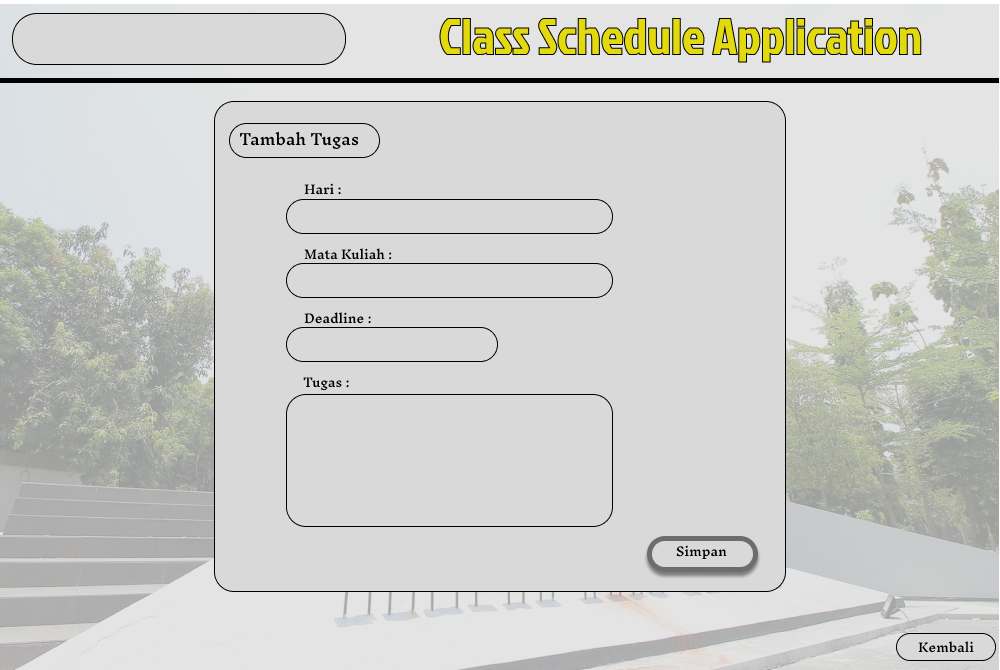
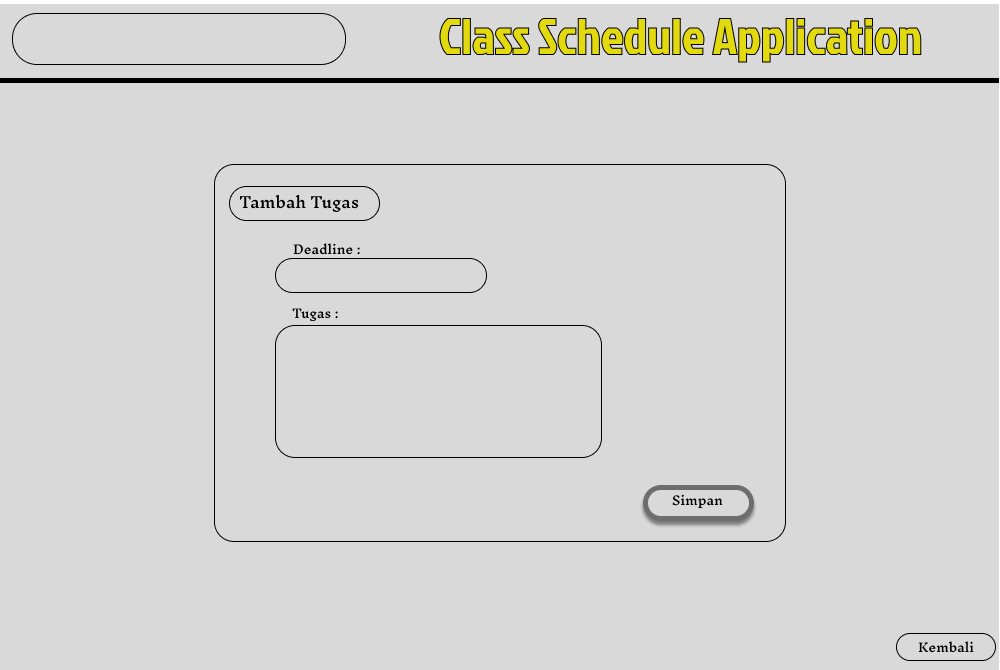
Add files via upload

diff --git a/src/csa_fppbo1/LihatJadwal.java b/src/csa_fppbo1/LihatJadwal.java
@@ -3,6 +3,7 @@
  * Click nbfs://nbhost/SystemFileSystem/Templates/GUIForms/JFrame.java to edit this template
  */
 package csa_fppbo1;
+
 import database.dbconnection;
 import java.sql.*;
 import javax.swing.*;
@@ -14,12 +15,11 @@ public class LihatJadwal extends javax.swing.JFrame {
      private String npm;
      private String nama;
      private String hari;
-     private String namaMatkul;
-     
-     
-    public LihatJadwal() {
+
+     public LihatJadwal() {
         initComponents();
     }
+     
     
     public LihatJadwal(String nama, String npm, String hari){
         this.nama = nama;
@@ -50,11 +50,14 @@ public class LihatJadwal extends javax.swing.JFrame {
 
             JLabel[] jLabelsJ = {jLabelJ1, jLabelJ2, jLabelJ3, jLabelJ4};
             JLabel[] jLabelsT = {jLabelJam1, jLabelJam2, jLabelJam3, jLabelJam4};
+            JLabel[] jLabelsTask = {jLabelT1, jLabelT2, jLabelT3, jLabelT4};
 
             int index = 0;
             while (rs.next() && index < 4) {
                 jLabelsJ[index].setText(rs.getString("mata_kuliah"));
                 jLabelsT[index].setText(rs.getString("jam"));
+                int scheduleId = rs.getInt("id");
+                loadTugas(scheduleId, jLabelsTask[index]);
                 index++;
             }
 
@@ -65,7 +68,31 @@ public class LihatJadwal extends javax.swing.JFrame {
             JOptionPane.showMessageDialog(this, "Error: " + e.getMessage());
         }
     }
+    
+    private void loadTugas(int scheduleId, JLabel label) {
+        try {
+            dbconnection koneksi = new dbconnection();
+            Connection conn = koneksi.getConnection();
+            String query = "SELECT deskripsi_tugas FROM tugas WHERE schedule_id = ?";
+            PreparedStatement ps = conn.prepareStatement(query);
+            ps.setInt(1, scheduleId);
+            ResultSet rs = ps.executeQuery();
 
+            if (rs.next()) {
+                label.setText(rs.getString("deskripsi_tugas"));
+            } else {
+                label.setText("Tidak ada tugas.");
+            }
+
+            rs.close();
+            ps.close();
+            conn.close();
+        } catch (SQLException e) {
+            JOptionPane.showMessageDialog(this, "Error: " + e.getMessage());
+        }
+    }
+    
+    
     private void deleteJadwal(int index) {
         try {
             dbconnection koneksi = new dbconnection();
@@ -75,7 +102,7 @@ public class LihatJadwal extends javax.swing.JFrame {
             JLabel[] jLabelsT = {jLabelJam1, jLabelJam2, jLabelJam3, jLabelJam4};
 
             String mataKuliah = jLabelsJ[index].getText();
-            if (mataKuliah.equals("J1") || mataKuliah.equals("J2") || mataKuliah.equals("J3") || mataKuliah.equals("4")) {
+            if (mataKuliah.equals("J1") || mataKuliah.equals("J2") || mataKuliah.equals("J3") || mataKuliah.equals("j4")) {
                 JOptionPane.showMessageDialog(this, "Tidak ada jadwal yang dipilih untuk dihapus.");
                 return;
             }
@@ -98,14 +125,45 @@ public class LihatJadwal extends javax.swing.JFrame {
             JOptionPane.showMessageDialog(this, "Error: " + e.getMessage());
         }
     }
+    
+    private void deleteTugas(int index) {
+        try {
+            dbconnection koneksi = new dbconnection();
+            Connection conn = koneksi.getConnection();
+            JLabel[] jLabelsTask = {jLabelT1, jLabelT2, jLabelT3, jLabelT4};
+            JLabel[] jLabelsJ = {jLabelJ1, jLabelJ2, jLabelJ3, jLabelJ4};
+
+            String mataKuliah = jLabelsJ[index].getText();
+            if (mataKuliah.equals("J1") || mataKuliah.equals("J2") || mataKuliah.equals("J3") || mataKuliah.equals("J4")) {
+                JOptionPane.showMessageDialog(this, "Tidak ada tugas yang dipilih untuk dihapus.");
+                return;
+            }
+
+            String query = "DELETE FROM tugas WHERE schedule_id = (SELECT id FROM schedule WHERE hari = ? AND npm = ? AND mata_kuliah = ?)";
+            PreparedStatement ps = conn.prepareStatement(query);
+            ps.setString(1, this.hari);
+            ps.setString(2, this.npm);
+            ps.setString(3, mataKuliah);
+            ps.executeUpdate();
+
+            jLabelsTask[index].setText("Tidak ada tugas.");
+
+            ps.close();
+            conn.close();
+
+            JOptionPane.showMessageDialog(this, "Tugas berhasil dihapus.");
+        } catch (SQLException e) {
+            JOptionPane.showMessageDialog(this, "Error: " + e.getMessage());
+        }
+    }
     @SuppressWarnings("unchecked")
     // <editor-fold defaultstate="collapsed" desc="Generated Code">//GEN-BEGIN:initComponents
     private void initComponents() {
 
-        jButton4 = new javax.swing.JButton();
-        jButton9 = new javax.swing.JButton();
+        jhapustugas3 = new javax.swing.JButton();
+        jhapustugas4 = new javax.swing.JButton();
         jButton10 = new javax.swing.JButton();
-        jButton11 = new javax.swing.JButton();
+        jhapustugas2 = new javax.swing.JButton();
         jButtonTtugas1 = new javax.swing.JButton();
         jButtonTtugas3 = new javax.swing.JButton();
         jButtonTtugas2 = new javax.swing.JButton();
@@ -121,7 +179,7 @@ public class LihatJadwal extends javax.swing.JFrame {
         jLabelT1 = new javax.swing.JLabel();
         jLabelT2 = new javax.swing.JLabel();
         jLabelT3 = new javax.swing.JLabel();
-        jButton21 = new javax.swing.JButton();
+        jhapustugas1 = new javax.swing.JButton();
         jButtonHapusJ1 = new javax.swing.JButton();
         jButtonHapusJ2 = new javax.swing.JButton();
         jButtonHapusJ3 = new javax.swing.JButton();
@@ -134,27 +192,27 @@ public class LihatJadwal extends javax.swing.JFrame {
         setDefaultCloseOperation(javax.swing.WindowConstants.EXIT_ON_CLOSE);
         getContentPane().setLayout(new org.netbeans.lib.awtextra.AbsoluteLayout());
 
-        jButton4.setBackground(new java.awt.Color(218, 218, 218));
-        jButton4.setFont(new java.awt.Font("Arial", 1, 14)); // NOI18N
-        jButton4.setText("-");
-        jButton4.setBorder(javax.swing.BorderFactory.createLineBorder(new java.awt.Color(0, 0, 0)));
-        jButton4.addActionListener(new java.awt.event.ActionListener() {
+        jhapustugas3.setBackground(new java.awt.Color(218, 218, 218));
+        jhapustugas3.setFont(new java.awt.Font("Arial", 1, 14)); // NOI18N
+        jhapustugas3.setText("-");
+        jhapustugas3.setBorder(javax.swing.BorderFactory.createLineBorder(new java.awt.Color(0, 0, 0)));
+        jhapustugas3.addActionListener(new java.awt.event.ActionListener() {
             public void actionPerformed(java.awt.event.ActionEvent evt) {
-                jButton4ActionPerformed(evt);
+                jhapustugas3ActionPerformed(evt);
             }
         });
-        getContentPane().add(jButton4, new org.netbeans.lib.awtextra.AbsoluteConstraints(495, 473, 20, 11));
+        getContentPane().add(jhapustugas3, new org.netbeans.lib.awtextra.AbsoluteConstraints(495, 473, 20, 11));
 
-        jButton9.setBackground(new java.awt.Color(218, 218, 218));
-        jButton9.setFont(new java.awt.Font("Arial", 1, 14)); // NOI18N
-        jButton9.setText("-");
-        jButton9.setBorder(javax.swing.BorderFactory.createLineBorder(new java.awt.Color(0, 0, 0)));
-        jButton9.addActionListener(new java.awt.event.ActionListener() {
+        jhapustugas4.setBackground(new java.awt.Color(218, 218, 218));
+        jhapustugas4.setFont(new java.awt.Font("Arial", 1, 14)); // NOI18N
+        jhapustugas4.setText("-");
+        jhapustugas4.setBorder(javax.swing.BorderFactory.createLineBorder(new java.awt.Color(0, 0, 0)));
+        jhapustugas4.addActionListener(new java.awt.event.ActionListener() {
             public void actionPerformed(java.awt.event.ActionEvent evt) {
-                jButton9ActionPerformed(evt);
+                jhapustugas4ActionPerformed(evt);
             }
         });
-        getContentPane().add(jButton9, new org.netbeans.lib.awtextra.AbsoluteConstraints(495, 583, 20, 11));
+        getContentPane().add(jhapustugas4, new org.netbeans.lib.awtextra.AbsoluteConstraints(495, 583, 20, 11));
 
         jButton10.setBackground(new java.awt.Color(218, 218, 218));
         jButton10.setFont(new java.awt.Font("Arial", 1, 10)); // NOI18N
@@ -167,16 +225,16 @@ public class LihatJadwal extends javax.swing.JFrame {
         });
         getContentPane().add(jButton10, new org.netbeans.lib.awtextra.AbsoluteConstraints(903, 630, 60, 20));
 
-        jButton11.setBackground(new java.awt.Color(218, 218, 218));
-        jButton11.setFont(new java.awt.Font("Arial", 1, 14)); // NOI18N
-        jButton11.setText("-");
-        jButton11.setBorder(javax.swing.BorderFactory.createLineBorder(new java.awt.Color(0, 0, 0)));
-        jButton11.addActionListener(new java.awt.event.ActionListener() {
+        jhapustugas2.setBackground(new java.awt.Color(218, 218, 218));
+        jhapustugas2.setFont(new java.awt.Font("Arial", 1, 14)); // NOI18N
+        jhapustugas2.setText("-");
+        jhapustugas2.setBorder(javax.swing.BorderFactory.createLineBorder(new java.awt.Color(0, 0, 0)));
+        jhapustugas2.addActionListener(new java.awt.event.ActionListener() {
             public void actionPerformed(java.awt.event.ActionEvent evt) {
-                jButton11ActionPerformed(evt);
+                jhapustugas2ActionPerformed(evt);
             }
         });
-        getContentPane().add(jButton11, new org.netbeans.lib.awtextra.AbsoluteConstraints(495, 362, 20, 11));
+        getContentPane().add(jhapustugas2, new org.netbeans.lib.awtextra.AbsoluteConstraints(495, 362, 20, 11));
 
         jButtonTtugas1.setBackground(new java.awt.Color(218, 218, 218));
         jButtonTtugas1.setFont(new java.awt.Font("Arial", 1, 10)); // NOI18N
@@ -255,16 +313,16 @@ public class LihatJadwal extends javax.swing.JFrame {
         getContentPane().add(jLabelT2, new org.netbeans.lib.awtextra.AbsoluteConstraints(180, 330, 280, 40));
         getContentPane().add(jLabelT3, new org.netbeans.lib.awtextra.AbsoluteConstraints(180, 440, 280, 40));
 
-        jButton21.setBackground(new java.awt.Color(218, 218, 218));
-        jButton21.setFont(new java.awt.Font("Arial", 1, 14)); // NOI18N
-        jButton21.setText("-");
-        jButton21.setBorder(javax.swing.BorderFactory.createLineBorder(new java.awt.Color(0, 0, 0)));
-        jButton21.addActionListener(new java.awt.event.ActionListener() {
+        jhapustugas1.setBackground(new java.awt.Color(218, 218, 218));
+        jhapustugas1.setFont(new java.awt.Font("Arial", 1, 14)); // NOI18N
+        jhapustugas1.setText("-");
+        jhapustugas1.setBorder(javax.swing.BorderFactory.createLineBorder(new java.awt.Color(0, 0, 0)));
+        jhapustugas1.addActionListener(new java.awt.event.ActionListener() {
             public void actionPerformed(java.awt.event.ActionEvent evt) {
-                jButton21ActionPerformed(evt);
+                jhapustugas1ActionPerformed(evt);
             }
         });
-        getContentPane().add(jButton21, new org.netbeans.lib.awtextra.AbsoluteConstraints(495, 250, 20, 11));
+        getContentPane().add(jhapustugas1, new org.netbeans.lib.awtextra.AbsoluteConstraints(495, 250, 20, 11));
 
         jButtonHapusJ1.setBackground(new java.awt.Color(218, 218, 218));
         jButtonHapusJ1.setFont(new java.awt.Font("Arial", 1, 14)); // NOI18N
@@ -317,13 +375,15 @@ public class LihatJadwal extends javax.swing.JFrame {
         pack();
     }// </editor-fold>//GEN-END:initComponents
 
-    private void jButton4ActionPerformed(java.awt.event.ActionEvent evt) {//GEN-FIRST:event_jButton4ActionPerformed
+    private void jhapustugas3ActionPerformed(java.awt.event.ActionEvent evt) {//GEN-FIRST:event_jhapustugas3ActionPerformed
         // TODO add your handling code here:
-    }//GEN-LAST:event_jButton4ActionPerformed
+        deleteTugas(2);
+    }//GEN-LAST:event_jhapustugas3ActionPerformed
 
-    private void jButton9ActionPerformed(java.awt.event.ActionEvent evt) {//GEN-FIRST:event_jButton9ActionPerformed
+    private void jhapustugas4ActionPerformed(java.awt.event.ActionEvent evt) {//GEN-FIRST:event_jhapustugas4ActionPerformed
         // TODO add your handling code here:
-    }//GEN-LAST:event_jButton9ActionPerformed
+        deleteTugas(3);
+    }//GEN-LAST:event_jhapustugas4ActionPerformed
 
     private void jButton10ActionPerformed(java.awt.event.ActionEvent evt) {//GEN-FIRST:event_jButton10ActionPerformed
         // TODO add your handling code here:
@@ -332,9 +392,10 @@ public class LihatJadwal extends javax.swing.JFrame {
         this.setVisible(false);
     }//GEN-LAST:event_jButton10ActionPerformed
 
-    private void jButton11ActionPerformed(java.awt.event.ActionEvent evt) {//GEN-FIRST:event_jButton11ActionPerformed
+    private void jhapustugas2ActionPerformed(java.awt.event.ActionEvent evt) {//GEN-FIRST:event_jhapustugas2ActionPerformed
         // TODO add your handling code here:
-    }//GEN-LAST:event_jButton11ActionPerformed
+        deleteTugas(1);
+    }//GEN-LAST:event_jhapustugas2ActionPerformed
 
     private void jButtonTtugas1ActionPerformed(java.awt.event.ActionEvent evt) {//GEN-FIRST:event_jButtonTtugas1ActionPerformed
         // TODO add your handling code here:
@@ -401,9 +462,10 @@ public class LihatJadwal extends javax.swing.JFrame {
         deleteJadwal(3);
     }//GEN-LAST:event_jButtonHapusJ4ActionPerformed
 
-    private void jButton21ActionPerformed(java.awt.event.ActionEvent evt) {//GEN-FIRST:event_jButton21ActionPerformed
+    private void jhapustugas1ActionPerformed(java.awt.event.ActionEvent evt) {//GEN-FIRST:event_jhapustugas1ActionPerformed
         // TODO add your handling code here:
-    }//GEN-LAST:event_jButton21ActionPerformed
+         deleteTugas(0);
+    }//GEN-LAST:event_jhapustugas1ActionPerformed
 
     private void jButtonHapusJ1ActionPerformed(java.awt.event.ActionEvent evt) {//GEN-FIRST:event_jButtonHapusJ1ActionPerformed
         // TODO add your handling code here:
@@ -520,10 +582,6 @@ public class LihatJadwal extends javax.swing.JFrame {
 
     // Variables declaration - do not modify//GEN-BEGIN:variables
     private javax.swing.JButton jButton10;
-    private javax.swing.JButton jButton11;
-    private javax.swing.JButton jButton21;
-    private javax.swing.JButton jButton4;
-    private javax.swing.JButton jButton9;
     private javax.swing.JButton jButtonHapusJ1;
     private javax.swing.JButton jButtonHapusJ2;
     private javax.swing.JButton jButtonHapusJ3;
@@ -547,5 +605,9 @@ public class LihatJadwal extends javax.swing.JFrame {
     private javax.swing.JLabel jLabelT3;
     private javax.swing.JLabel jLabelT4;
     private javax.swing.JLabel jLabelTanggal;
+    private javax.swing.JButton jhapustugas1;
+    private javax.swing.JButton jhapustugas2;
+    private javax.swing.JButton jhapustugas3;
+    private javax.swing.JButton jhapustugas4;
     // End of variables declaration//GEN-END:variables
 }

diff --git a/src/csa_fppbo1/TambahTugas.java b/src/csa_fppbo1/TambahTugas.java
@@ -63,38 +63,16 @@ public class TambahTugas extends javax.swing.JFrame {
     // <editor-fold defaultstate="collapsed" desc="Generated Code">//GEN-BEGIN:initComponents
     private void initComponents() {
 
-        jButton4 = new javax.swing.JButton();
-        jButton6 = new javax.swing.JButton();
         jScrollPane1 = new javax.swing.JScrollPane();
         jTextAreaTugas = new javax.swing.JTextArea();
         jLabel1 = new javax.swing.JLabel();
         jDateChooser = new com.toedter.calendar.JDateChooser();
-        jLabel3 = new javax.swing.JLabel();
+        BACKGROUND = new javax.swing.JLabel();
+        jButton4 = new javax.swing.JButton();
+        jButton6 = new javax.swing.JButton();
 
         setDefaultCloseOperation(javax.swing.WindowConstants.EXIT_ON_CLOSE);
         getContentPane().setLayout(new org.netbeans.lib.awtextra.AbsoluteLayout());
-
-        jButton4.setBackground(new java.awt.Color(218, 218, 218));
-        jButton4.setFont(new java.awt.Font("Arial", 1, 10)); // NOI18N
-        jButton4.setText("Kembali");
-        jButton4.setBorder(null);
-        jButton4.addActionListener(new java.awt.event.ActionListener() {
-            public void actionPerformed(java.awt.event.ActionEvent evt) {
-                jButton4ActionPerformed(evt);
-            }
-        });
-        getContentPane().add(jButton4, new org.netbeans.lib.awtextra.AbsoluteConstraints(917, 632, 60, 20));
-
-        jButton6.setBackground(new java.awt.Color(218, 218, 218));
-        jButton6.setFont(new java.awt.Font("Arial", 1, 10)); // NOI18N
-        jButton6.setText("Simpan");
-        jButton6.setBorder(null);
-        jButton6.addActionListener(new java.awt.event.ActionListener() {
-            public void actionPerformed(java.awt.event.ActionEvent evt) {
-                jButton6ActionPerformed(evt);
-            }
-        });
-        getContentPane().add(jButton6, new org.netbeans.lib.awtextra.AbsoluteConstraints(660, 487, 80, 20));
 
         jTextAreaTugas.setBackground(new java.awt.Color(218, 218, 218));
         jTextAreaTugas.setColumns(20);
@@ -107,13 +85,35 @@ public class TambahTugas extends javax.swing.JFrame {
         getContentPane().add(jScrollPane1, new org.netbeans.lib.awtextra.AbsoluteConstraints(290, 330, 300, 110));
 
         jLabel1.setBackground(new java.awt.Color(218, 218, 218));
-        getContentPane().add(jLabel1, new org.netbeans.lib.awtextra.AbsoluteConstraints(40, 10, 280, 40));
+        getContentPane().add(jLabel1, new org.netbeans.lib.awtextra.AbsoluteConstraints(40, 20, 280, 40));
 
         jDateChooser.setBackground(new java.awt.Color(218, 218, 218));
-        getContentPane().add(jDateChooser, new org.netbeans.lib.awtextra.AbsoluteConstraints(290, 260, 190, -1));
+        getContentPane().add(jDateChooser, new org.netbeans.lib.awtextra.AbsoluteConstraints(300, 260, 170, -1));
 
-        jLabel3.setIcon(new javax.swing.ImageIcon(getClass().getResource("/gambar/TambahTugas2.png"))); // NOI18N
-        getContentPane().add(jLabel3, new org.netbeans.lib.awtextra.AbsoluteConstraints(0, 0, 1000, 660));
+        BACKGROUND.setIcon(new javax.swing.ImageIcon(getClass().getResource("/gambar/TambahTugas2.png"))); // NOI18N
+        getContentPane().add(BACKGROUND, new org.netbeans.lib.awtextra.AbsoluteConstraints(0, 0, -1, 660));
+
+        jButton4.setBackground(new java.awt.Color(218, 218, 218));
+        jButton4.setFont(new java.awt.Font("Arial", 1, 10)); // NOI18N
+        jButton4.setText("Kembali");
+        jButton4.setBorder(null);
+        jButton4.addActionListener(new java.awt.event.ActionListener() {
+            public void actionPerformed(java.awt.event.ActionEvent evt) {
+                jButton4ActionPerformed(evt);
+            }
+        });
+        getContentPane().add(jButton4, new org.netbeans.lib.awtextra.AbsoluteConstraints(900, 620, 100, 40));
+
+        jButton6.setBackground(new java.awt.Color(218, 218, 218));
+        jButton6.setFont(new java.awt.Font("Arial", 1, 10)); // NOI18N
+        jButton6.setText("Simpan");
+        jButton6.setBorder(null);
+        jButton6.addActionListener(new java.awt.event.ActionListener() {
+            public void actionPerformed(java.awt.event.ActionEvent evt) {
+                jButton6ActionPerformed(evt);
+            }
+        });
+        getContentPane().add(jButton6, new org.netbeans.lib.awtextra.AbsoluteConstraints(650, 477, 100, 40));
 
         pack();
     }// </editor-fold>//GEN-END:initComponents
@@ -271,11 +271,11 @@ public class TambahTugas extends javax.swing.JFrame {
     }
 
     // Variables declaration - do not modify//GEN-BEGIN:variables
+    private javax.swing.JLabel BACKGROUND;
     private javax.swing.JButton jButton4;
     private javax.swing.JButton jButton6;
     private com.toedter.calendar.JDateChooser jDateChooser;
     private javax.swing.JLabel jLabel1;
-    private javax.swing.JLabel jLabel3;
     private javax.swing.JScrollPane jScrollPane1;
     private javax.swing.JTextArea jTextAreaTugas;
     // End of variables declaration//GEN-END:variables
